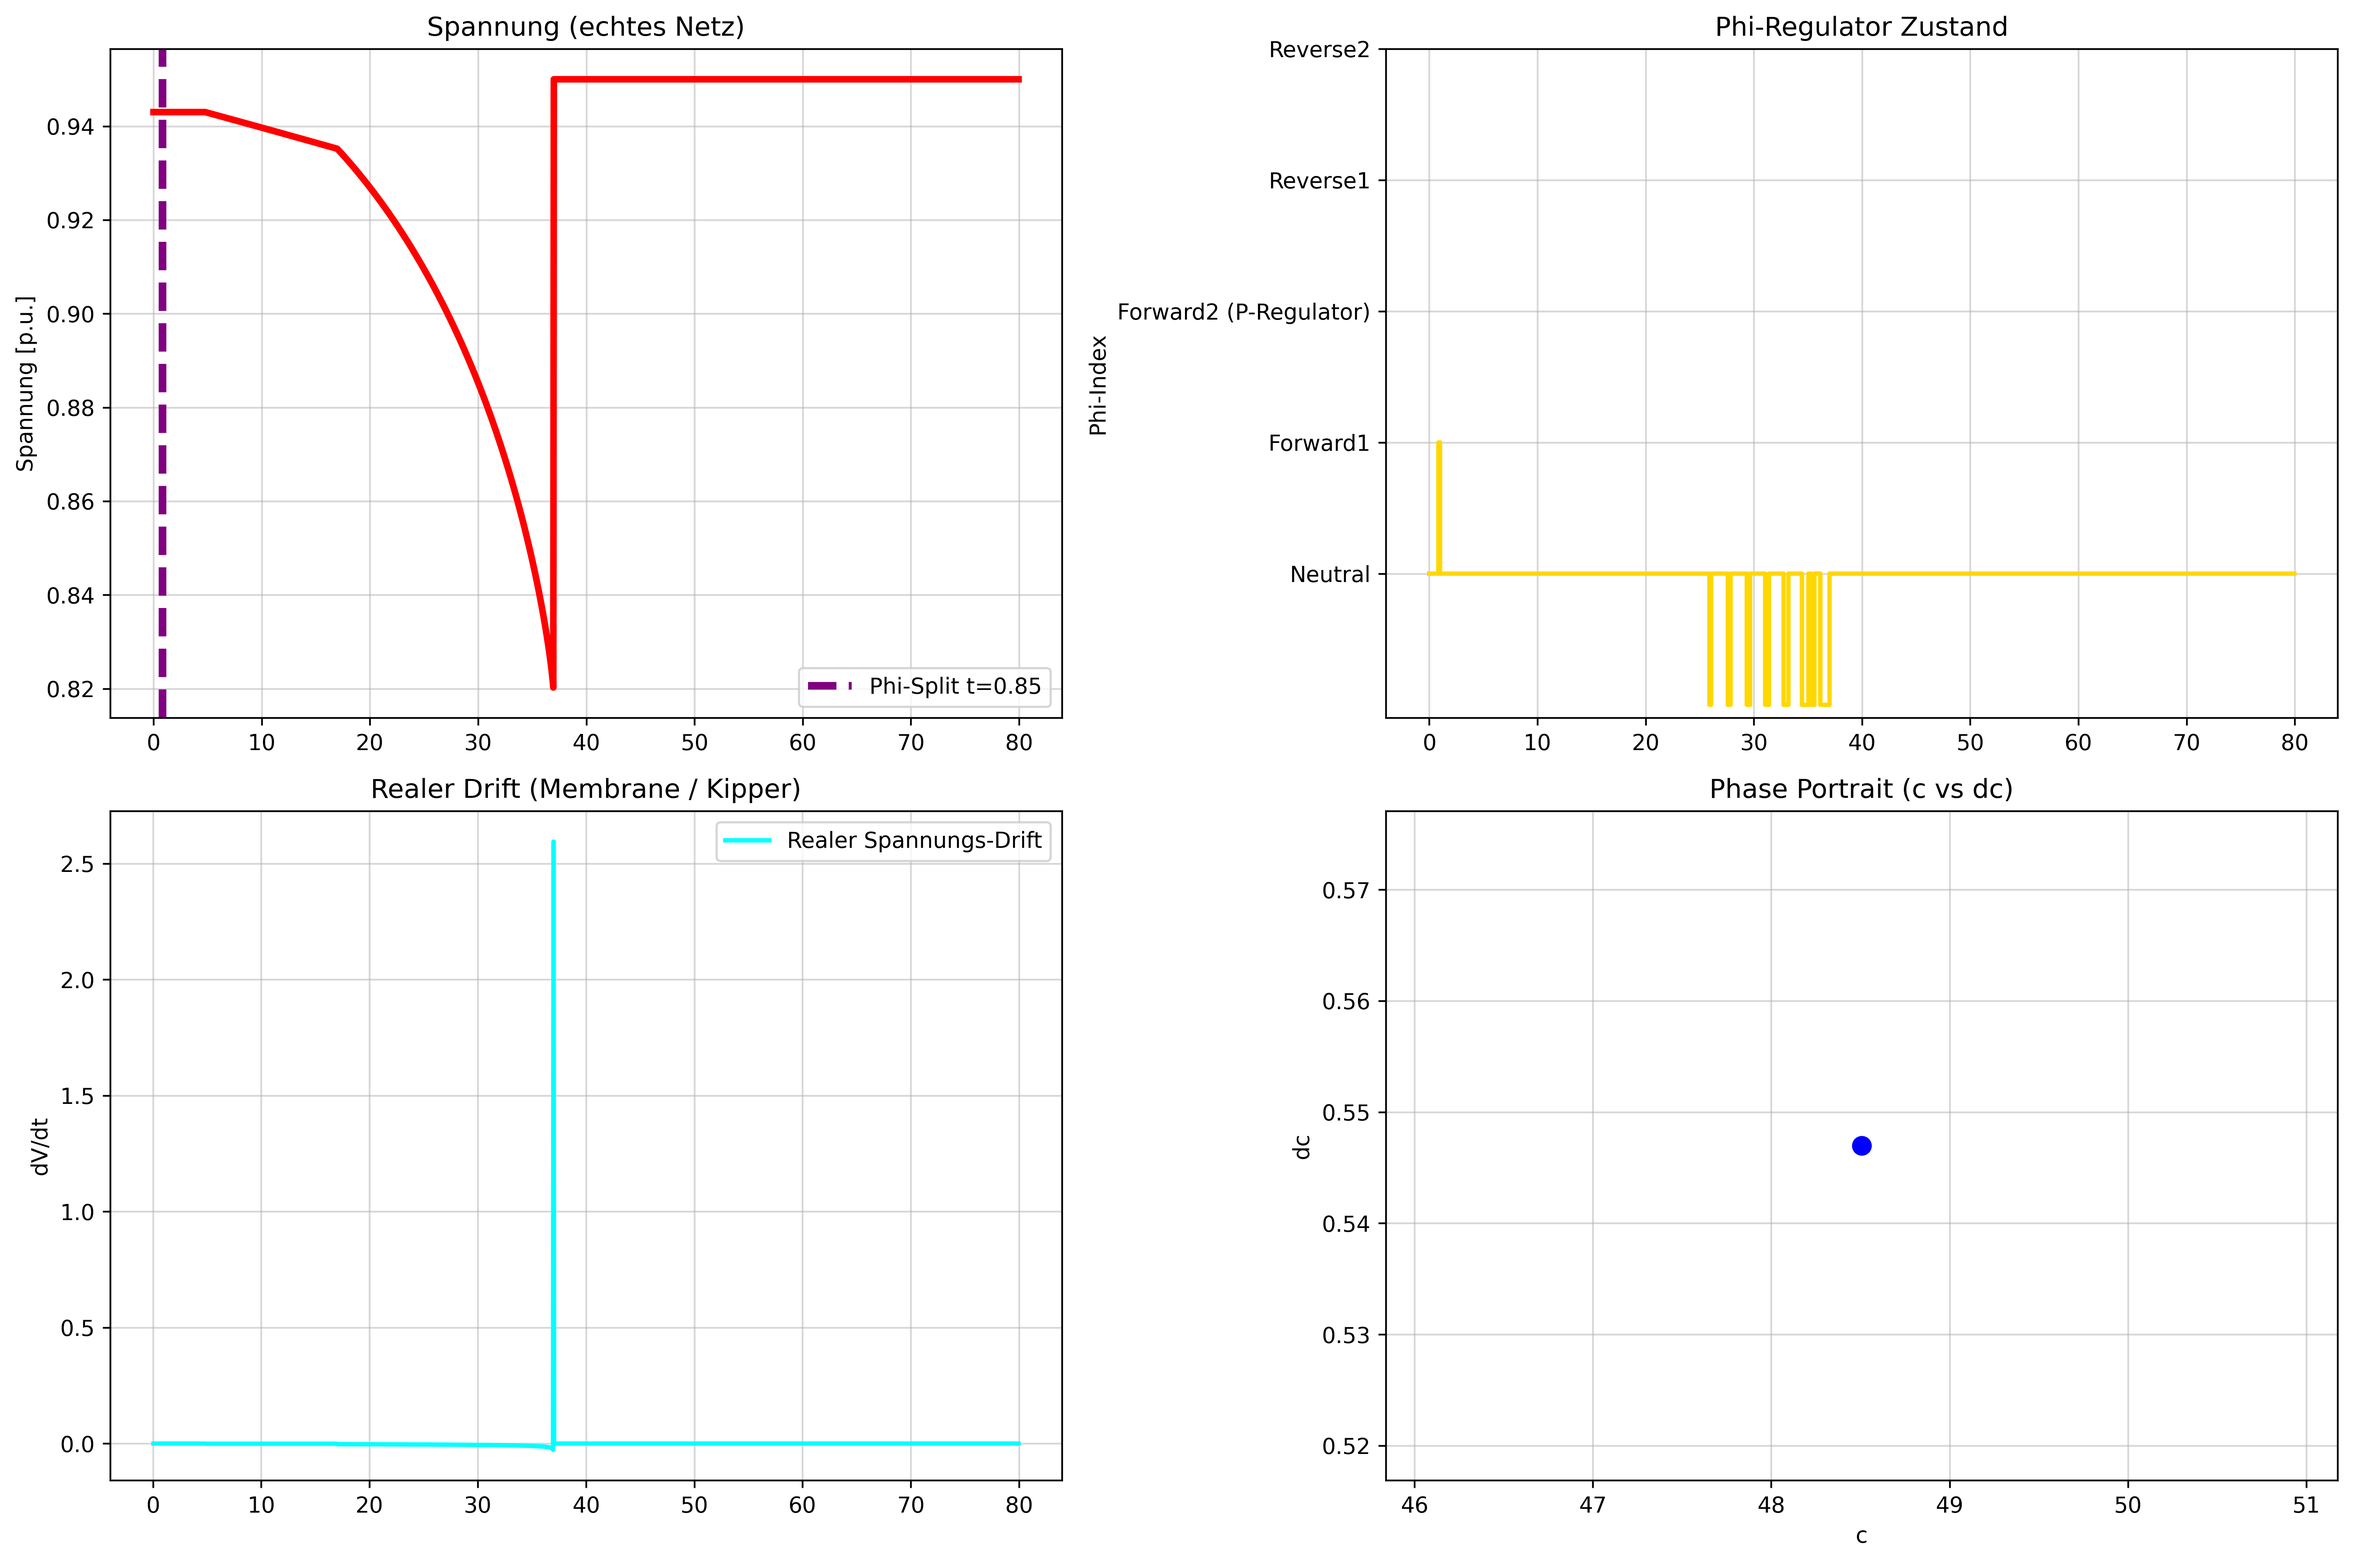
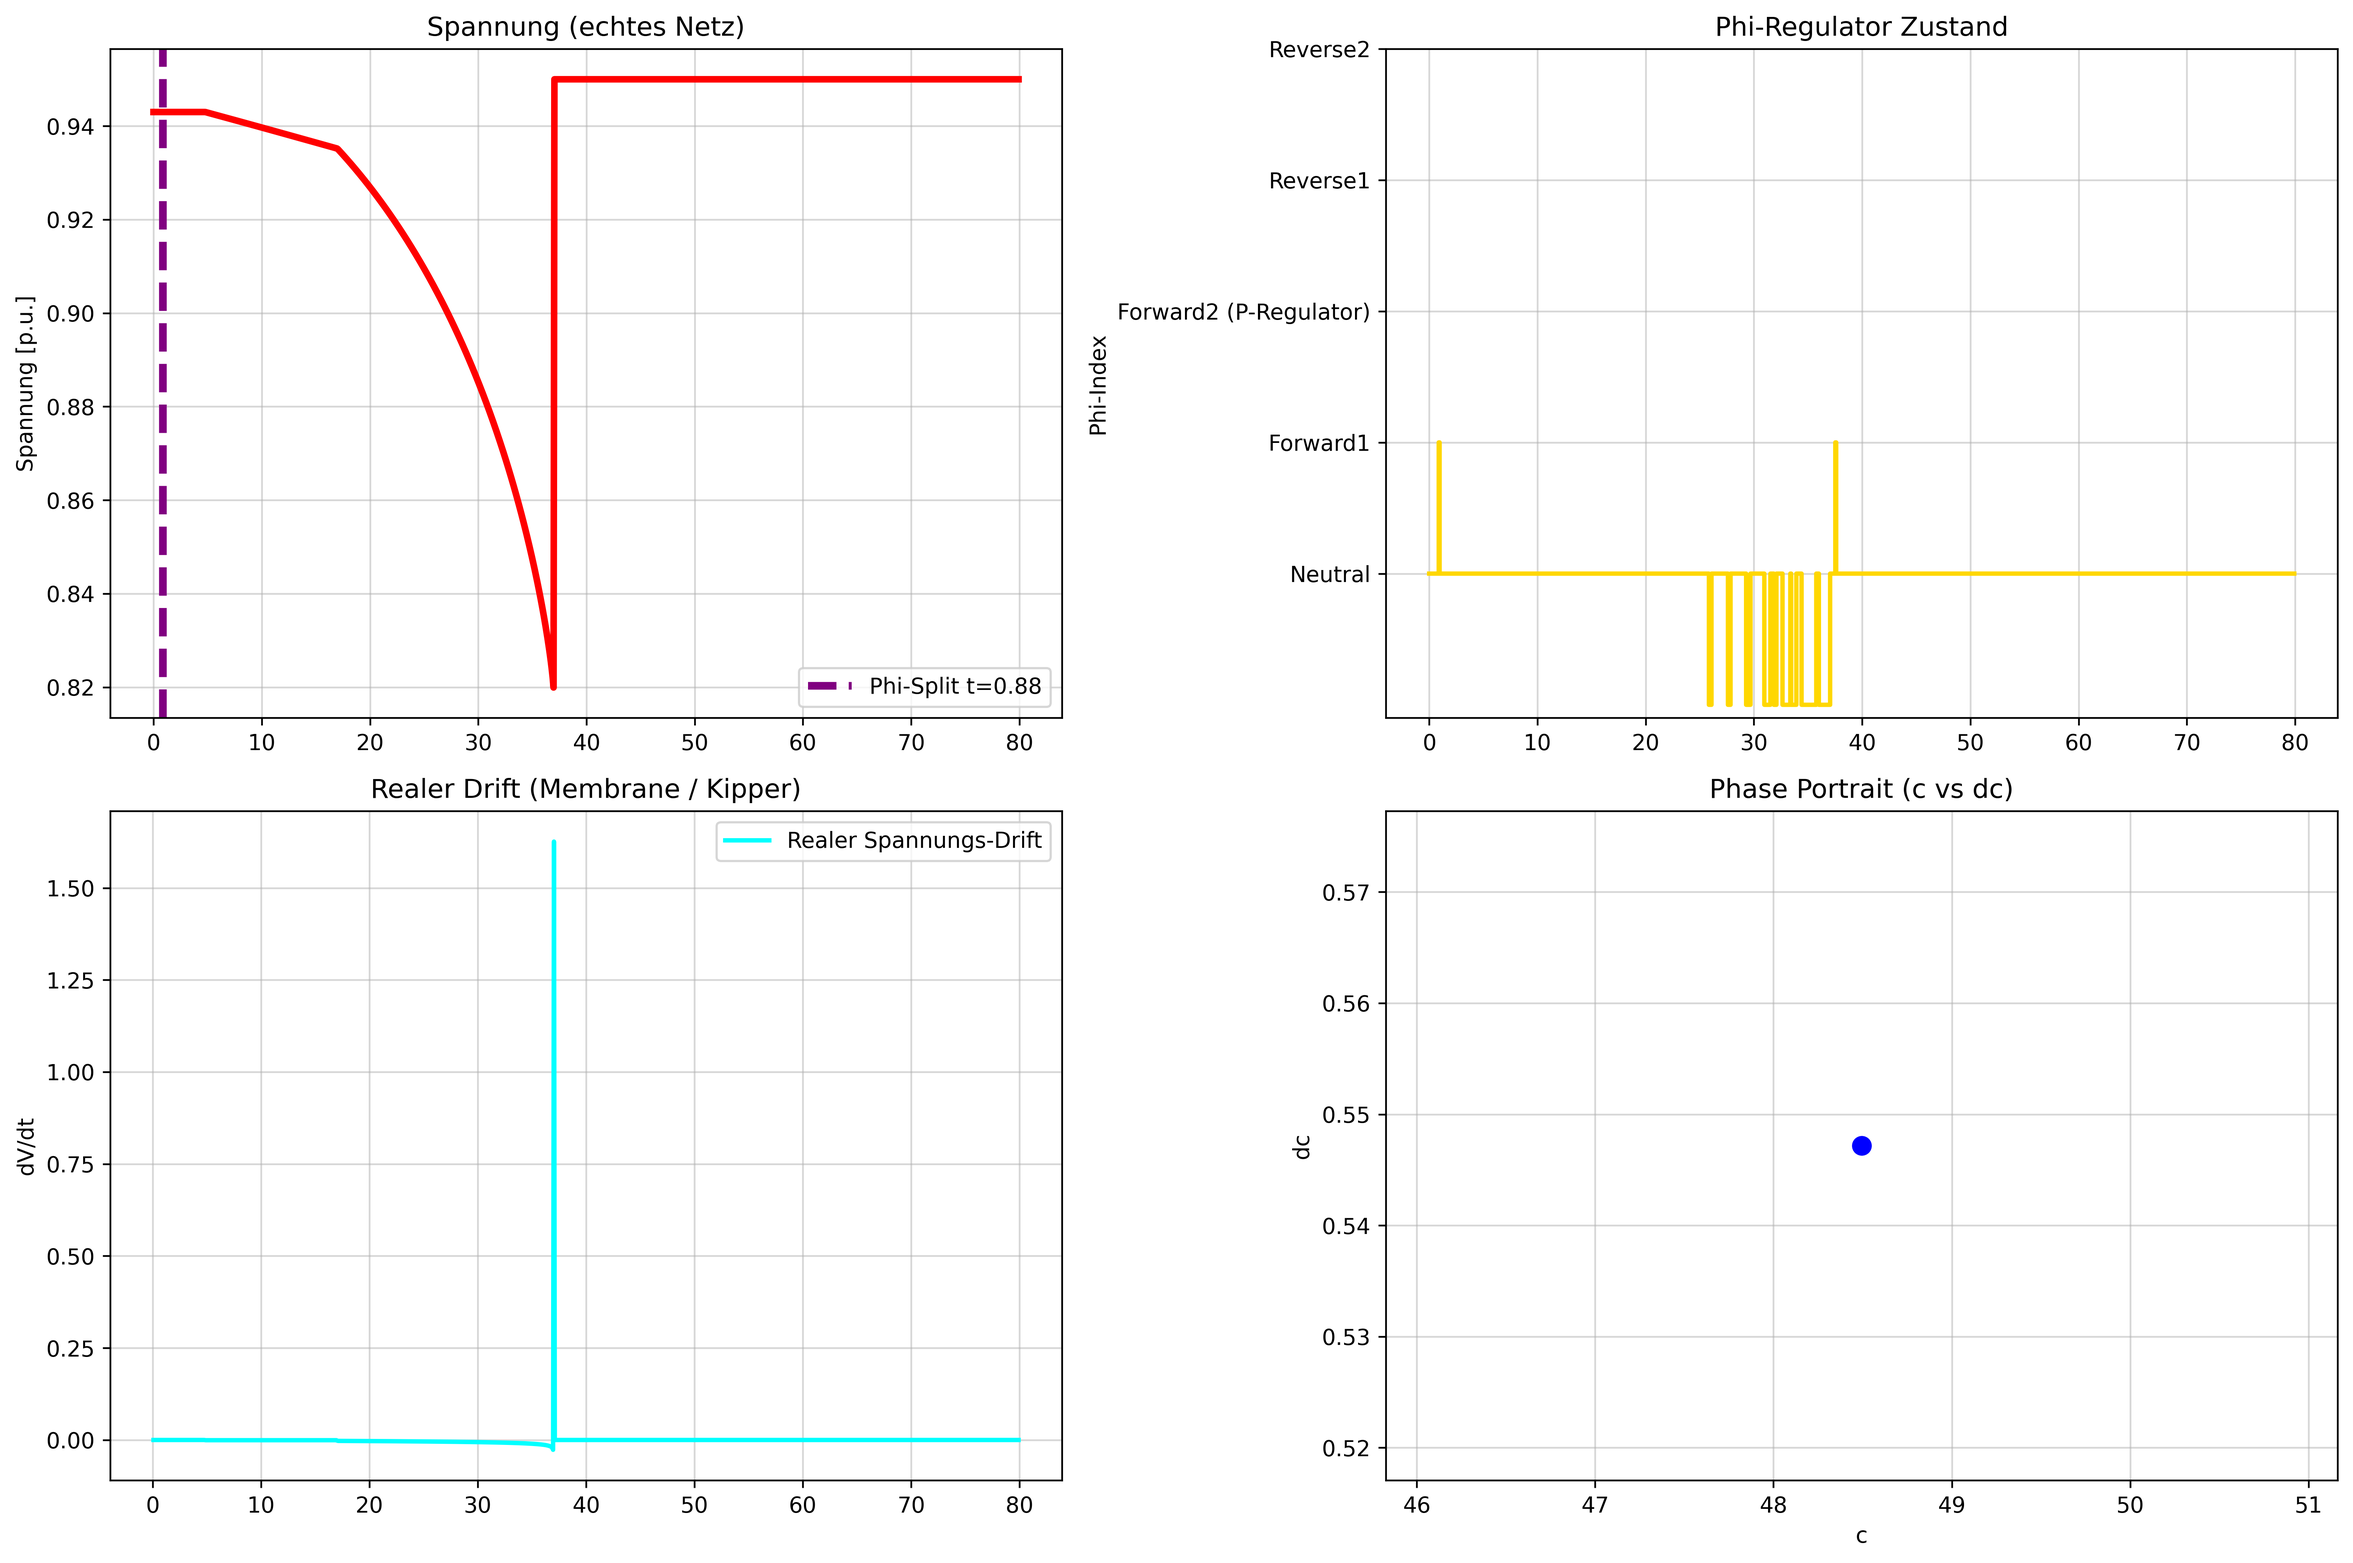
commit

diff --git a/APPLICATIONS/power_systems/stability_field_dynamics/iee_core_geometry/ieee_scaling/ieee118_real_tunable_v11.6.py b/APPLICATIONS/power_systems/stability_field_dynamics/iee_core_geometry/ieee_scaling/ieee118_real_tunable_v11.6.py
@@ -1,0 +1,130 @@
+import numpy as np
+import matplotlib.pyplot as plt
+from scipy.integrate import solve_ivp
+import pandapower as pp
+import pandapower.networks as pn
+
+PHI_NAMES = ["Neutral", "Forward1", "Forward2 (P-Regulator)", "Reverse1", "Reverse2"]
+PHI_COLORS = ['gray', 'orange', 'gold', 'blue', 'purple']
+
+N_BANDS = [0.429, 0.456, 0.487]
+Q = 1.62
+WINDING_THRESHOLD = 7.0
+
+SIGMA = 10.0
+RHO = 28.0
+BETA = 8.0 / 3.0
+
+def nexah_lorenz_ode(t, x, vm_history):
+    c, dc, phi_idx = x
+    phi = np.clip(int(round(phi_idx)), 0, 4)
+    
+    p_drive = [0.0, 0.85, 1.48, -1.0, -1.7][phi]
+    
+    f_field = SIGMA * (dc - c) + RHO * c * (1 - phi)
+    f_vdp = 0.65 * dc * (1 - c**2)
+    f_kuramoto = 0.40 * sum((1 + Q) * np.sin(2 * np.pi * (phi - i) / 5) for i in range(5))
+    omega = 2 * np.pi * 0.52
+    f_compass = 0.25 * np.sin(omega * t + phi * 0.25) * np.cos(omega * t + phi * 0.25 * 1.618)
+    
+    resonance = np.sin(phi * np.pi * np.sqrt(2)) * 1.8
+    theta = t * 3.6
+    winding_number = np.sin(theta) * N_BANDS[phi % 3] + np.cos(2 * theta) * 0.8
+    
+    # Realer Drift-Sensor nur auf den Membrane-Knick
+    if len(vm_history) > 2:
+        real_drift = (vm_history[-1] - vm_history[-2]) + 0.5 * (vm_history[-2] - vm_history[-3])
+    else:
+        real_drift = 0.0
+    drift_boost = 10.0 * real_drift if real_drift < -0.001 else 0.0
+    
+    inversion = 1.0 if phi < 3 else (0.15 + 0.85 * np.tanh((phi - 1.85) * 5.8))
+    slow_start = 1.0 / (1.0 + np.exp(-0.45 * (t - 34.0)))
+    contraction = 1.0 - 0.22 * np.tanh((t - 32.0) * 0.28)
+    
+    d_dc = (0.95 * f_field + f_vdp + f_kuramoto + f_compass + 0.8 * p_drive 
+            + resonance + 2.0 * winding_number + drift_boost)
+    d_dc *= inversion * contraction * slow_start
+    d_dc += 1.28 * (0.022 * t) * slow_start
+    
+    d_phi = resonance + 2.0 * winding_number + 9.0 * drift_boost
+    
+    # Bügel: kurzes Halten in Forward2 am Kipper
+    if abs(dc) > WINDING_THRESHOLD and phi < 4 and t > 35:
+        d_phi += 16.0
+    
+    return [dc * contraction, d_dc, d_phi]
+
+print("🚀 Lade echtes IEEE 118-Bus Netz...")
+net = pn.case118()
+
+t = np.arange(0, 80, 0.05)
+voltage_classic = []
+phi_idx_history = []
+switch_time = None
+x = [0.05, 0.0, 0.0]
+vm_history = []
+
+for time in t:
+    load_factor = 1.0 + 0.022 * time
+    net.load['scaling'] = load_factor
+    
+    try:
+        pp.runpp(net, numba=False)
+        vm_min = net.res_bus.vm_pu.min()
+    except:
+        vm_min = 0.95
+    
+    voltage_classic.append(vm_min)
+    vm_history.append(vm_min)
+    
+    sol = solve_ivp(nexah_lorenz_ode, (time, time + 0.05), x, method='RK45', rtol=1e-5, max_step=0.03, args=(vm_history,))
+    x = sol.y[:, -1]
+    
+    phi_idx = int(round(x[2]))
+    phi_idx_history.append(phi_idx)
+    
+    if switch_time is None and phi_idx > 0:
+        switch_time = time
+        lead_time = 80 - time
+        print(f"✅ Phi-Split bei t = {time:.2f} s")
+        print(f"   → Vorsprung gegenüber klassischem Collapse: {lead_time:.1f} s")
+
+# 4-Panel Plot
+fig = plt.figure(figsize=(15, 10))
+ax1 = fig.add_subplot(2, 2, 1)
+ax1.plot(t, voltage_classic, 'r', lw=3)
+if switch_time is not None:
+    ax1.axvline(x=switch_time, color='purple', linestyle='--', lw=3.5, label=f'Phi-Split t={switch_time:.2f}')
+ax1.set_title("Spannung (echtes Netz)")
+ax1.set_ylabel("Spannung [p.u.]")
+ax1.grid(True, alpha=0.5)
+ax1.legend()
+
+ax2 = fig.add_subplot(2, 2, 2)
+ax2.plot(t, phi_idx_history, 'gold', lw=2, drawstyle='steps-post')
+ax2.set_title("Phi-Regulator Zustand (mit Bügel)")
+ax2.set_ylabel("Phi-Index")
+ax2.set_yticks(range(5))
+ax2.set_yticklabels(PHI_NAMES)
+ax2.grid(True, alpha=0.5)
+
+ax3 = fig.add_subplot(2, 2, 3)
+drift = np.diff(voltage_classic) / 0.05
+ax3.plot(t[1:], drift, 'cyan', lw=2, label="Realer Spannungs-Drift")
+ax3.set_title("Realer Drift (Membrane / Kipper)")
+ax3.set_ylabel("dV/dt")
+ax3.grid(True, alpha=0.5)
+ax3.legend()
+
+ax4 = fig.add_subplot(2, 2, 4)
+ax4.plot(x[0], x[1], 'bo', markersize=8)
+ax4.set_title("Phase Portrait (c vs dc)")
+ax4.set_xlabel("c")
+ax4.set_ylabel("dc")
+ax4.grid(True, alpha=0.5)
+
+plt.tight_layout()
+plt.savefig("ieee118_real_tunable_v11.6_4panel_buegel.png", dpi=420, bbox_inches='tight')
+print("\n📸 4-Panel-Plot mit Bügel gespeichert!")
+plt.show()
